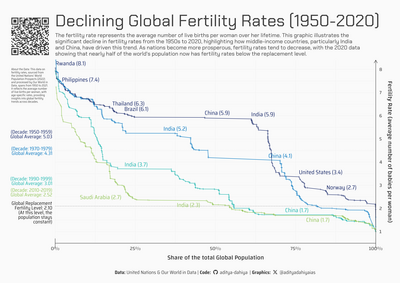
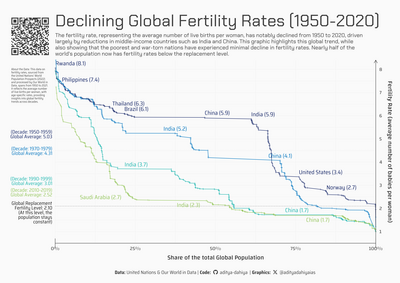
Revert "reverting all 2"
This reverts commit 538f962259d391651083236fbd73d1424f7fbd36.

Changed region(s): [[0.15, 0.1131, 0.9, 0.1979]]

diff --git a/docs/data_vizs/owid_health_exp_cover.html b/docs/data_vizs/owid_health_exp_cover.html
@@ -327,7 +327,7 @@ pre > code.sourceCode > span > a:first-child::before { text-decoration: underlin
 <span id="cb2-28"><a href="#cb2-28" aria-hidden="true" tabindex="-1"></a></span>
 <span id="cb2-29"><a href="#cb2-29" aria-hidden="true" tabindex="-1"></a>plot_title <span class="ot">&lt;-</span> <span class="st">"Declining Global Fertility Rates (1950-2020)"</span></span>
 <span id="cb2-30"><a href="#cb2-30" aria-hidden="true" tabindex="-1"></a></span>
-<span id="cb2-31"><a href="#cb2-31" aria-hidden="true" tabindex="-1"></a>plot_subtitle <span class="ot">&lt;-</span> <span class="st">"The fertility rate represents the average number of live births per woman over her lifetime. This graphic illustrates the significant decline in fertility rates from the 1950s to 2020, highlighting how middle-income countries, particularly India and China, have driven this trend. As nations become more prosperous, fertility rates tend to decrease, with the 2020 data showing that nearly half of the world's population now has fertility rates below the replacement level."</span></span>
+<span id="cb2-31"><a href="#cb2-31" aria-hidden="true" tabindex="-1"></a>plot_subtitle <span class="ot">&lt;-</span> <span class="st">"The fertility rate, representing the average number of live births per woman, has notably declined from 1950 to 2020, driven largely by reductions in middle-income countries such as India and China. This graphic highlights this global trend, while also showing that the poorest and war-torn nations have experienced minimal decline in fertility rates. Nearly half of the world's population now has fertility rates below the replacement level."</span></span>
 <span id="cb2-32"><a href="#cb2-32" aria-hidden="true" tabindex="-1"></a></span>
 <span id="cb2-33"><a href="#cb2-33" aria-hidden="true" tabindex="-1"></a>data_annotation <span class="ot">&lt;-</span> <span class="st">"About the Data: This data on fertility rates, sourced from the United Nations' World Population Prospects (2022) and processed by Our World in Data, spans from 1950 to 2021. It reflects the average number of live births per woman, with age-specific rates, providing insights into global fertility trends across decades."</span></span>
 ========
